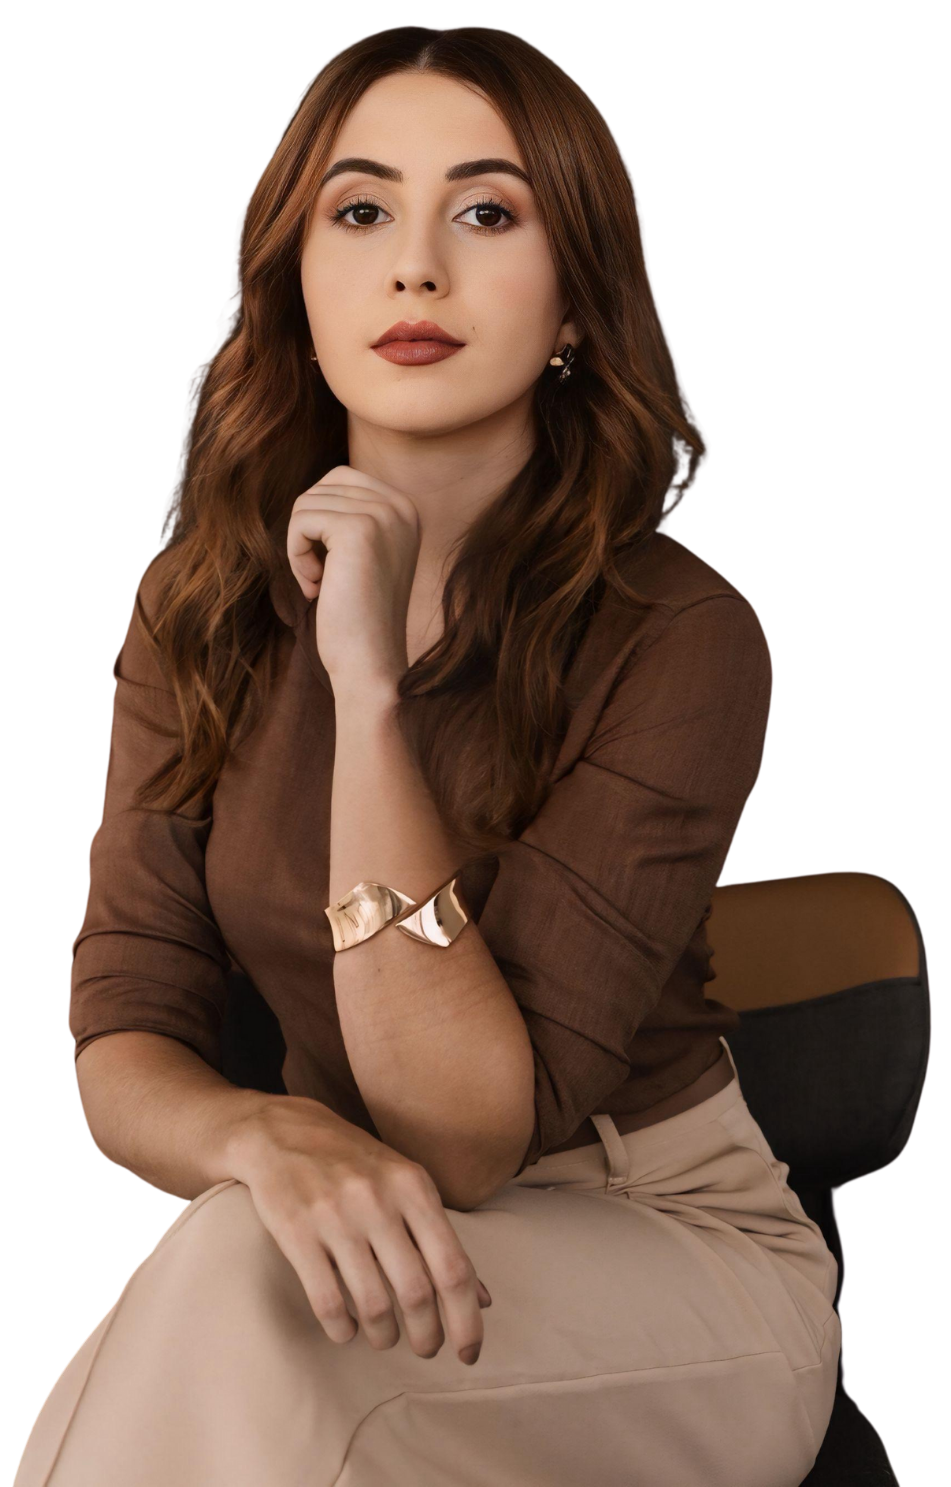
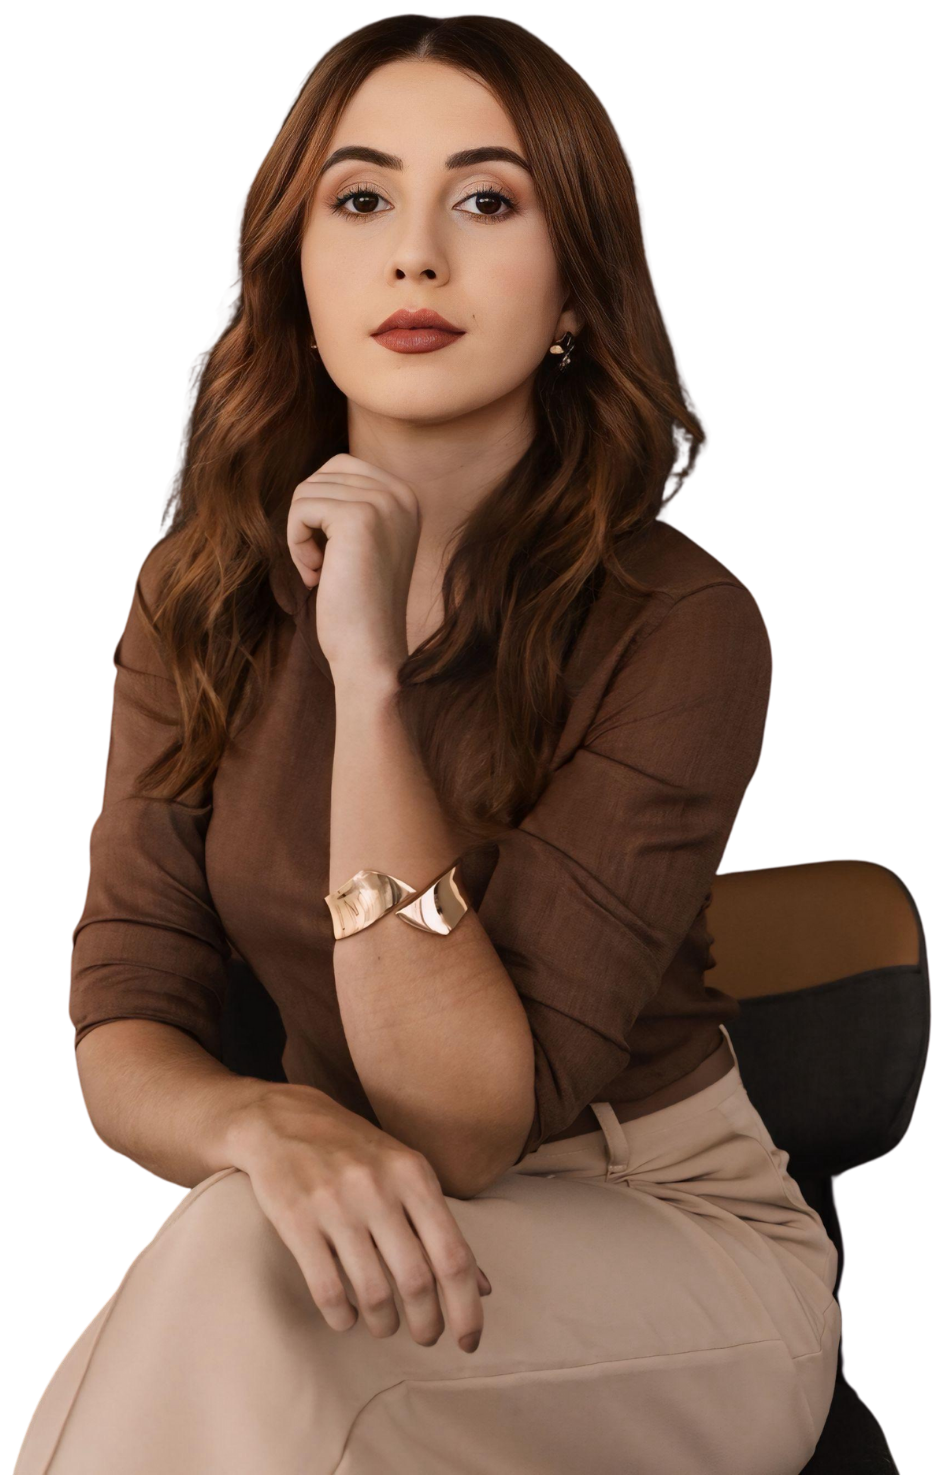
first commit

diff --git a/components/hero.tsx b/components/hero.tsx
@@ -24,7 +24,7 @@ const Hero = () => {
     }
 
     return (
-        <section id="inicio" className="relative h-screen overflow-hidden">
+        <section id="inicio" className="relative min-h-screen overflow-hidden">
             <div className="absolute inset-0 z-0">
                 <div className="relative w-full h-full">
                     {mounted && (
@@ -42,14 +42,14 @@ const Hero = () => {
                 </div>
             </div>
 
-            <div className="relative z-10 w-full h-full flex items-center">
+            <div className="relative z-10 w-full h-full flex items-center pt-32 sm:pt-24 lg:pt-0">
                 <div className="max-w-7xl mx-auto px-4 sm:px-6 lg:px-8 w-full">
-                    <div className="grid lg:grid-cols-2 gap-32 items-end w-full">
+                    <div className="grid lg:grid-cols-2 gap-32 items-end w-full py-8 lg:py-0">
                         <motion.div
                             initial={{opacity: 0, x: -50}}
                             animate={{opacity: 1, x: 0}}
                             transition={{duration: 0.8}}
-                            className="text-white pb-56"
+                            className="text-white pb-8 lg:pb-56"
                         >
                             <motion.h1
                                 initial={{opacity: 0, y: 30}}
@@ -88,7 +88,7 @@ const Hero = () => {
                             >
                                 <button
                                     onClick={openWhatsApp}
-                                    className="inline-flex items-center justify-center px-8 py-4 bg-light-green text-dark-green font-semibold rounded-lg hover:bg-opacity-90 transition-all duration-300 hover:scale-105 shadow-lg"
+                                    className="inline-flex items-center justify-center px-8 py-4 bg-[#25D366] text-white font-semibold rounded-lg hover:bg-[#20BA5A] transition-all duration-300 hover:scale-105 shadow-lg"
                                 >
                                     <MessageSquare size={20} className="mr-2"/>
                                     WhatsApp
@@ -108,7 +108,7 @@ const Hero = () => {
                             initial={{opacity: 0, x: 50}}
                             animate={{opacity: 1, x: 0}}
                             transition={{duration: 0.8, delay: 0.4}}
-                            className="relative hidden lg:flex justify-end items-end h-[calc(120vh-8rem)]"
+                            className="relative hidden lg:flex justify-end items-end h-[calc(100vh+3rem)]"
                         >
                             <div className="relative w-full h-full" style={{marginBottom: '10px'}}>
                                 <Image
@@ -122,13 +122,29 @@ const Hero = () => {
                             </div>
                         </motion.div>
                     </div>
+
+                    <motion.div
+                        initial={{opacity: 0, scale: 0.8}}
+                        animate={{opacity: 1, scale: 1}}
+                        transition={{duration: 0.8, delay: 0.6}}
+                        className="lg:hidden relative w-full h-[400px] mt-8 mb-16"
+                    >
+                        <Image
+                            src="/lawyer-photo-main.png"
+                            alt="Dra. Glória Menezes"
+                            fill
+                            className="object-contain object-bottom"
+                            priority
+                            sizes="100vw"
+                        />
+                    </motion.div>
                 </div>
 
                 <motion.div
                     initial={{opacity: 0}}
                     animate={{opacity: 1}}
                     transition={{duration: 1, delay: 1.2}}
-                    className="absolute bottom-16 left-1/2 transform -translate-x-1/2 z-20"
+                    className="absolute bottom-8 lg:bottom-16 left-1/2 transform -translate-x-1/2 z-20"
                 >
                     <ArrowDown className="w-8 h-8 text-white animate-bounce"/>
                 </motion.div>
